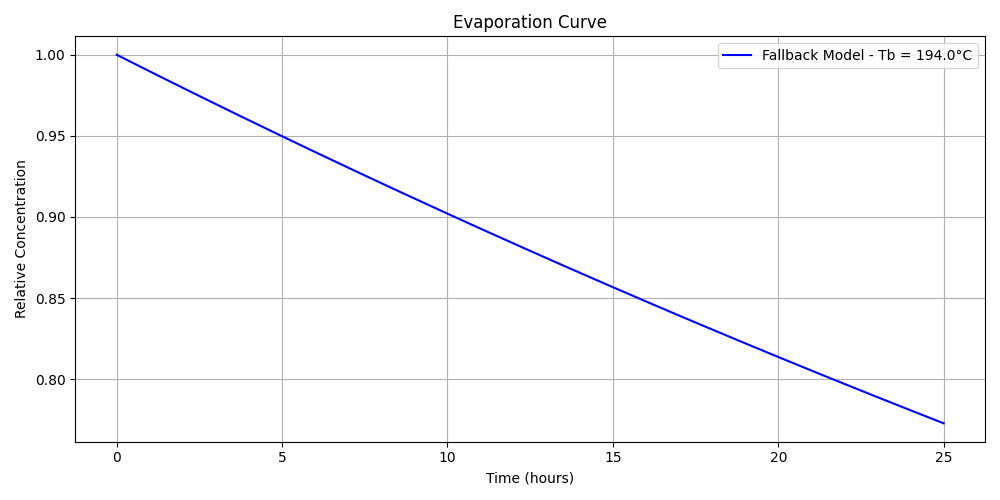
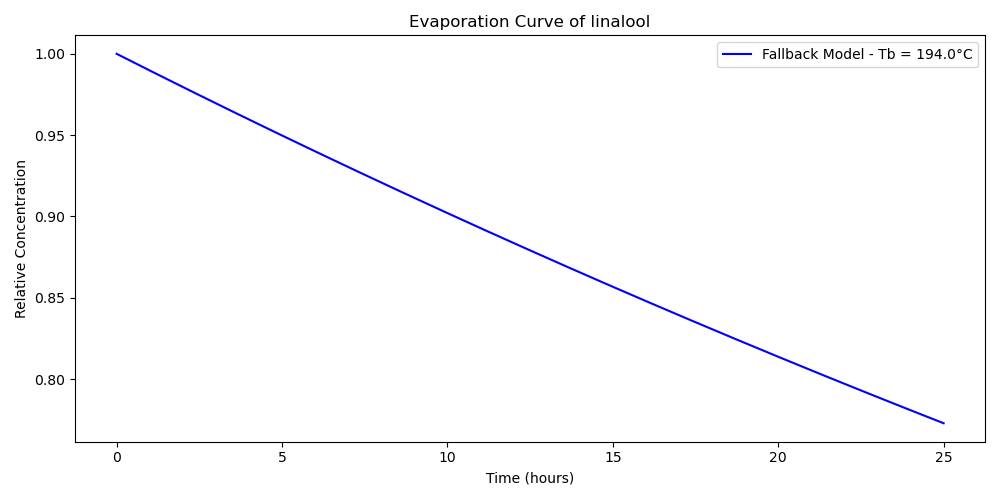
Modifications on usable_in_perfume

diff --git a/tests/Test_main_functions.py b/tests/Test_main_functions.py
@@ -79,7 +79,7 @@ def test_usable_in_perfume():
     
     """
     Check that the function take the good information from the 3 main functions  
-    
+    """
     # Test Case 1: Molecule with an odor, safe for skin, and appropriate volatility 
     molecule_1 = "coumarin"  
     msg_1, plot_path_1 = usable_in_perfume(molecule_1)
@@ -96,21 +96,16 @@ def test_usable_in_perfume():
     assert "🧴 Skin-safe." in msg_2, "Water is generally safe for skin, this test should pass"
 
     # Test Case 3: Molecule with an odor but not always safe for skin 
-    molecule_3 = "geraniol"  
+    molecule_3 = "linalool"  
     msg_3, plot_path_3 = usable_in_perfume(molecule_3)
     print(f"Test 3 - {molecule_3}: {msg_3}")
     assert "👃 Smell detected." in msg_3, "Odor should be detected"
     assert "⚠ Not confirmed safe for skin contact." in msg_3, "Skin safety should be flagged as not confirmed"
-
+    assert "**heart note**" in msg_3, "Note classification is incorrect"
+    
     # Test Case 4: Molecule with no evaporation data 
     molecule_4 = "Squalane"  
     msg_4, plot_path_4 = usable_in_perfume(molecule_4)
     print(f"Test 4 - {molecule_4}: {msg_4}")
     assert "⚠ Insufficient volatility data to classify the note." in msg_4, "Volatility data should be insufficient for this molecule"
-"""
-    molecule_5 ="linalool"
-    msg_5, plot_path_5 =usable_in_perfume(molecule_5)
-    print(f"test 5 -{molecule_5}:{msg_5}" )
-    assert "👃 Smell detected." in msg_5, "Odor should be detected"
-    assert "⚠ Not confirmed safe for skin contact." in msg_5, "Skin safety should be flagged as not confirmed"
-    assert "**heart note**" in msg_5, "Note classification is incorrect"
+

diff --git a/src/perfumeme/usable_in_perfume.py b/src/perfumeme/usable_in_perfume.py
@@ -71,10 +71,10 @@ def usable_in_perfume(smiles_or_name: str):
             fig, ax = plt.subplots()
             ax.imshow(img)
             ax.axis('off')
-            ax.grid(False)
+            
             note_display = f"Note: {note_type.upper()}"
             ax.text(0.05,0.9, note_display, transform=ax.transAxes,
-                    fontsize = 11, fontweight='bold', color = 'darkblue',
+                    fontsize = 8, fontweight='bold', color = 'darkblue',
                     bbox = dict(facecolor = 'white', alpha=0.6, edgecolor = 'none'))
             annotated_path = plot_path.replace(".png","_annotated.png")
             plt.savefig(annotated_path, bbox_inches = 'tight', dpi=300)

diff --git a/src/perfumeme/main_functions.py b/src/perfumeme/main_functions.py
@@ -188,18 +188,16 @@ def evaporation_trace(compound_name_or_smiles: str, save_path: str = "evaporatio
         print("⚠ Not enough data to calculate evaporation curve.")
         return None, None, None, None, None
     
-    fig, ax = plt.subplots()
-    ax.grid(False)
 
     plt.xlabel("Time (hours)")
     plt.ylabel("Relative Concentration")
-    plt.title("Evaporation Curve")
-    plt.grid(True)
+    plt.title(f"Evaporation Curve of {compound_name_or_smiles}")
+    plt.grid(False)
     plt.legend()
 
     plt.tight_layout()
     plt.savefig(save_path)
-    plt.show()
+    
     plt.close()
 
     return vapor_pressure_value, boiling_point, vapor_pressure_temp, enthalpy_vap, save_path

diff --git a/tests/test_other_functions.py b/tests/test_other_functions.py
@@ -1,4 +1,4 @@
-from .perfumeme.utils.py import resolve_input_to_smiles_and_cid , get_odor
+from src.perfumeme.utils import resolve_input_to_smiles_and_cid , get_odor
 import pandas as pd
 import pytest 
 
